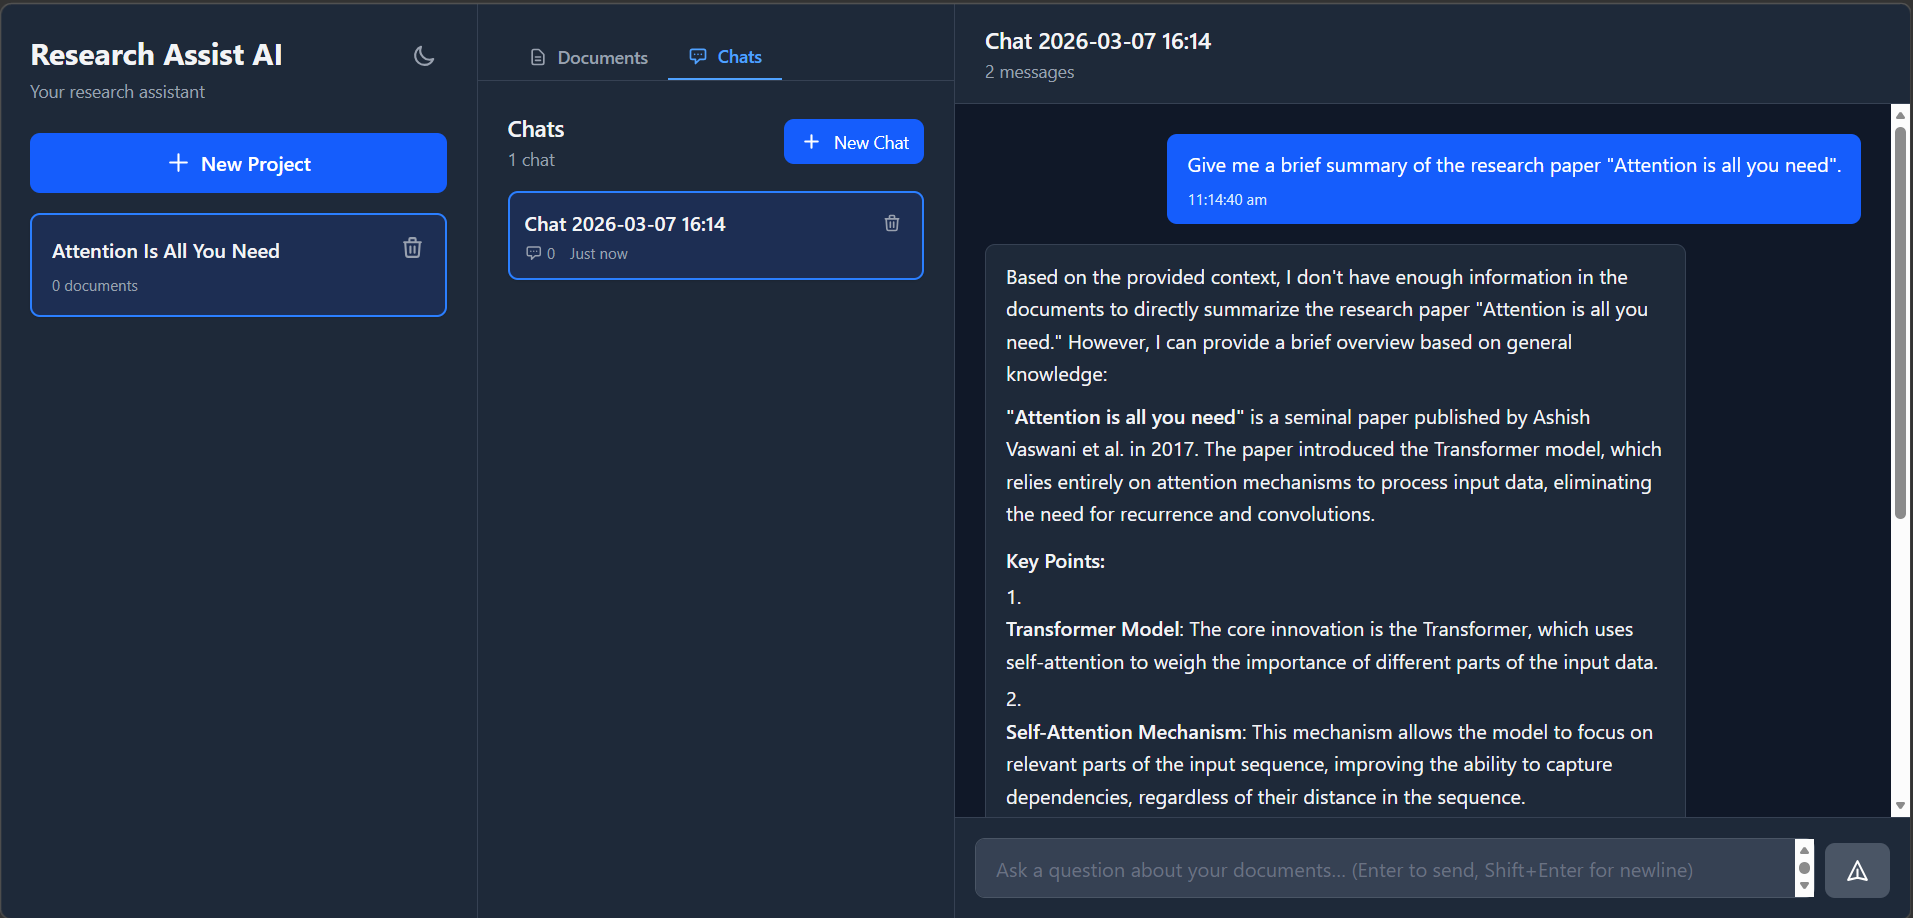
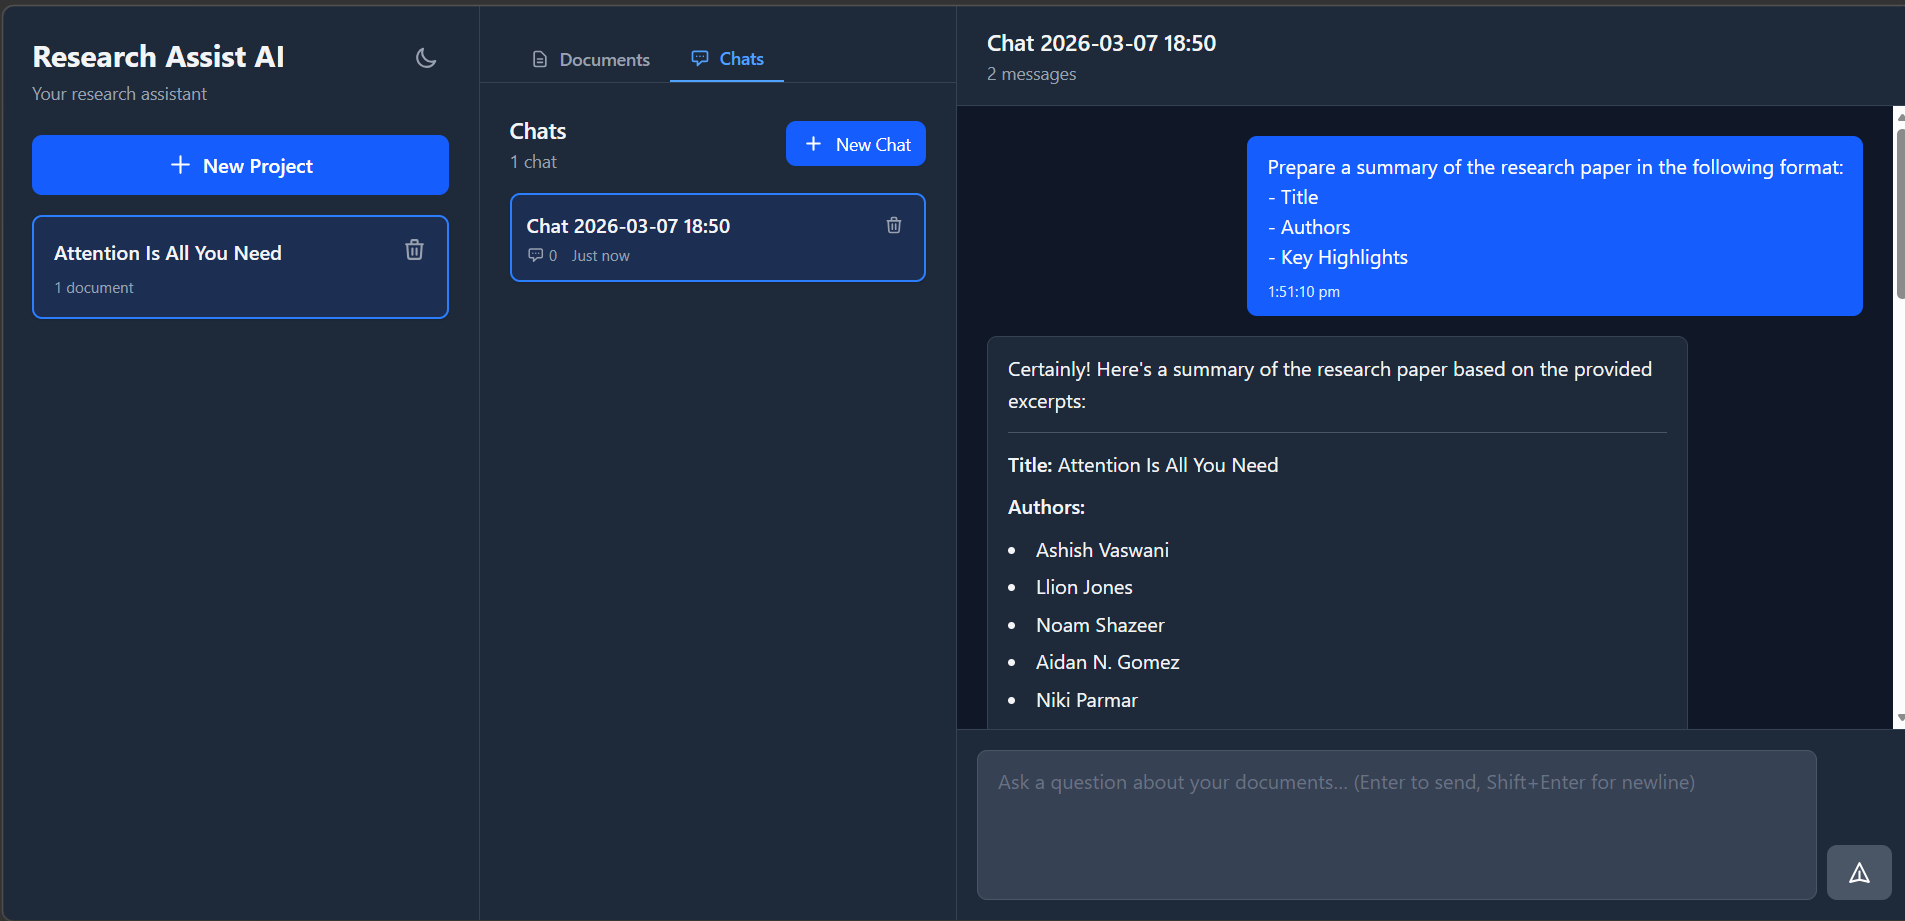
[fix] Update similarity threshold handling and improve retrieval logic

diff --git a/backend/app/implementations/pgvector_store.py b/backend/app/implementations/pgvector_store.py
@@ -55,7 +55,7 @@ class PGVectorStore(VectorStore):
         query_embedding: list[float],
         document_ids: list[UUID],
         top_k: int = 5,
-        similarity_threshold: float = 0.7,
+        similarity_threshold: float | None = 0.7,
         embedding_model_id: str | None = None,
     ) -> list[SearchResult]:
         """
@@ -65,15 +65,13 @@ class PGVectorStore(VectorStore):
             query_embedding: Query vector
             document_ids: Limit search to these documents
             top_k: Number of results to return
-            similarity_threshold: Minimum similarity score (0-1)
+            similarity_threshold: Minimum similarity score (0-1). Pass None to
+                disable threshold filtering and return top-K by distance only.
             embedding_model_id: If set, only search chunks with this model ID
             
         Returns:
             List of search results sorted by similarity
         """
-        # Convert similarity threshold to distance threshold
-        distance_threshold = 1.0 - similarity_threshold
-        
         # Build query using pgvector's cosine distance operator
         query = select(
             DocumentChunk.id,
@@ -85,8 +83,14 @@ class PGVectorStore(VectorStore):
             (1 - DocumentChunk.embedding.cosine_distance(query_embedding)).label("score")
         ).where(
             DocumentChunk.document_id.in_(document_ids),
-            DocumentChunk.embedding.cosine_distance(query_embedding) <= distance_threshold
         )
+
+        # Apply distance threshold only when explicitly requested
+        if similarity_threshold is not None:
+            distance_threshold = 1.0 - similarity_threshold
+            query = query.where(
+                DocumentChunk.embedding.cosine_distance(query_embedding) <= distance_threshold
+            )
 
         # Mixed-model filter: only match chunks with the same embedding model
         if embedding_model_id is not None:
@@ -144,14 +148,16 @@ class PGVectorStore(VectorStore):
             List of search results with fused ranking
         """
         # Fetch more results from each method for better fusion
-        fetch_k = top_k * 2
+        fetch_k = top_k * 3
         
-        # Perform vector similarity search
+        # Perform vector similarity search with no threshold — let RRF rank quality.
+        # Instructional queries ("give me a summary...") have low cosine similarity
+        # to document content, so a fixed threshold would filter out all results.
         vector_results = await self.similarity_search(
             query_embedding=query_embedding,
             document_ids=document_ids,
             top_k=fetch_k,
-            similarity_threshold=0.5,  # Lower threshold for fusion
+            similarity_threshold=None,  # No threshold in hybrid mode — RRF handles ranking
             embedding_model_id=embedding_model_id,
         )
         
@@ -190,8 +196,10 @@ class PGVectorStore(VectorStore):
         Returns:
             List of search results sorted by BM25 score
         """
-        # Convert query to tsquery format
-        # Use plainto_tsquery for simple query processing
+        # Convert query to tsquery format.
+        # websearch_to_tsquery uses OR between terms (like a web search), so it
+        # matches chunks containing ANY of the query words rather than ALL of them.
+        # This is much better for instructional queries like "give me a summary of..."
         query = select(
             DocumentChunk.id,
             DocumentChunk.document_id,
@@ -202,13 +210,13 @@ class PGVectorStore(VectorStore):
             # Use ts_rank for BM25-like scoring
             func.ts_rank(
                 DocumentChunk.search_vector,
-                func.plainto_tsquery('english', query_text)
+                func.websearch_to_tsquery('english', query_text)
             ).label("score")
         ).where(
             DocumentChunk.document_id.in_(document_ids),
-            # Match query against search_vector
+            # Match query against search_vector (OR semantics via websearch_to_tsquery)
             DocumentChunk.search_vector.op("@@")(
-                func.plainto_tsquery('english', query_text)
+                func.websearch_to_tsquery('english', query_text)
             )
         ).order_by(
             text("score DESC")

diff --git a/backend/tests/test_retrieval_service.py b/backend/tests/test_retrieval_service.py
@@ -31,8 +31,8 @@ def mock_settings() -> Settings:
     """Create mock settings with retrieval config."""
     settings = Mock(spec=Settings)
     settings.retrieval = RetrievalConfig(
-        top_k=5,
-        similarity_threshold=0.7,
+        top_k=15,
+        similarity_threshold=0.5,
         use_hybrid_search=True,
         bm25_weight=0.3,
         vector_weight=0.7
@@ -153,7 +153,7 @@ async def test_retrieve_for_query_success(
     assert call_args.kwargs['query_embedding'] == [0.1, 0.2, 0.3]
     assert call_args.kwargs['query_text'] == query
     assert set(call_args.kwargs['document_ids']) == {doc1_id, doc2_id}
-    assert call_args.kwargs['top_k'] == 5
+    assert call_args.kwargs['top_k'] == 15
     assert call_args.kwargs['vector_weight'] == 0.7
     assert call_args.kwargs['bm25_weight'] == 0.3
     
@@ -305,8 +305,8 @@ async def test_retrieve_for_query_vector_only_search(
     # Verify correct parameters
     call_args = mock_vector_store.similarity_search.call_args
     assert call_args.kwargs['query_embedding'] == [0.1, 0.2, 0.3]
-    assert call_args.kwargs['top_k'] == 5
-    assert call_args.kwargs['similarity_threshold'] == 0.7
+    assert call_args.kwargs['top_k'] == 15
+    assert call_args.kwargs['similarity_threshold'] is None
 
 
 @pytest.mark.asyncio

diff --git a/backend/app/services/chat_service.py b/backend/app/services/chat_service.py
@@ -417,19 +417,27 @@ class ChatService:
         empty = RetrievalResult(context="", sources=[], chunk_count=0)
 
         if self.retrieval_service is None:
+            logger.warning("Retrieval skipped — no retrieval_service configured")
             return empty
 
         try:
-            return await self.retrieval_service.retrieve_for_query(
+            result = await self.retrieval_service.retrieve_for_query(
                 project_id=project_id,
                 query=user_message,
             )
-        except ValueError:
+            logger.info(
+                "Retrieval for project %s returned %d chunks",
+                project_id, result.chunk_count,
+            )
+            return result
+        except ValueError as exc:
             # Project has no documents — expected, not an error
+            logger.info("Retrieval: %s", exc)
             return empty
         except Exception as exc:
             logger.error(
                 "Retrieval failed for project %s: %s", project_id, exc,
+                exc_info=True,
             )
             return empty
 

diff --git a/backend/app/main.py b/backend/app/main.py
@@ -14,6 +14,19 @@ from app.db.base import init_db
 from app.routers import projects, documents, chats, admin
 from app.services.chat_service import ServiceUnavailableError
 
+# ---------------------------------------------------------------------------
+# Logging — configure *before* any application code so every module that
+# calls ``logging.getLogger(__name__)`` inherits a usable handler.
+# ---------------------------------------------------------------------------
+logging.basicConfig(
+    level=logging.INFO,
+    format="%(asctime)s  %(levelname)-8s  %(name)s  %(message)s",
+)
+# Reduce noise from chatty libraries; keep our app at INFO.
+logging.getLogger("botocore").setLevel(logging.WARNING)
+logging.getLogger("urllib3").setLevel(logging.WARNING)
+logging.getLogger("sqlalchemy.engine").setLevel(logging.WARNING)
+
 logger = logging.getLogger(__name__)
 
 # Friendly labels for common HTTP status codes used in error responses.

diff --git a/backend/app/core/interfaces/vector_store.py b/backend/app/core/interfaces/vector_store.py
@@ -73,7 +73,7 @@ class VectorStore(ABC):
         query_embedding: list[float],
         document_ids: list[UUID],
         top_k: int = 5,
-        similarity_threshold: float = 0.7,
+        similarity_threshold: float | None = 0.7,
         embedding_model_id: str | None = None,
     ) -> list[SearchResult]:
         """
@@ -83,7 +83,8 @@ class VectorStore(ABC):
             query_embedding: Query vector
             document_ids: Limit search to these documents (project scope)
             top_k: Number of results to return
-            similarity_threshold: Minimum similarity score
+            similarity_threshold: Minimum similarity score (0-1). Pass None to
+                disable threshold filtering and return top-K by distance only.
             embedding_model_id: If set, only match chunks with this model ID
             
         Returns:

diff --git a/backend/app/services/retrieval_service.py b/backend/app/services/retrieval_service.py
@@ -218,12 +218,13 @@ class RetrievalService:
                 embedding_model_id=current_model_id,
             )
         else:
-            # Vector-only search
+            # Vector-only search: also use no threshold so instructional queries
+            # aren't filtered out (top-K by distance is sufficient here too)
             return await self.vector_store.similarity_search(
                 query_embedding=query_embedding,
                 document_ids=document_ids,
                 top_k=top_k,
-                similarity_threshold=self.settings.retrieval.similarity_threshold,
+                similarity_threshold=None,
                 embedding_model_id=current_model_id,
             )
 
